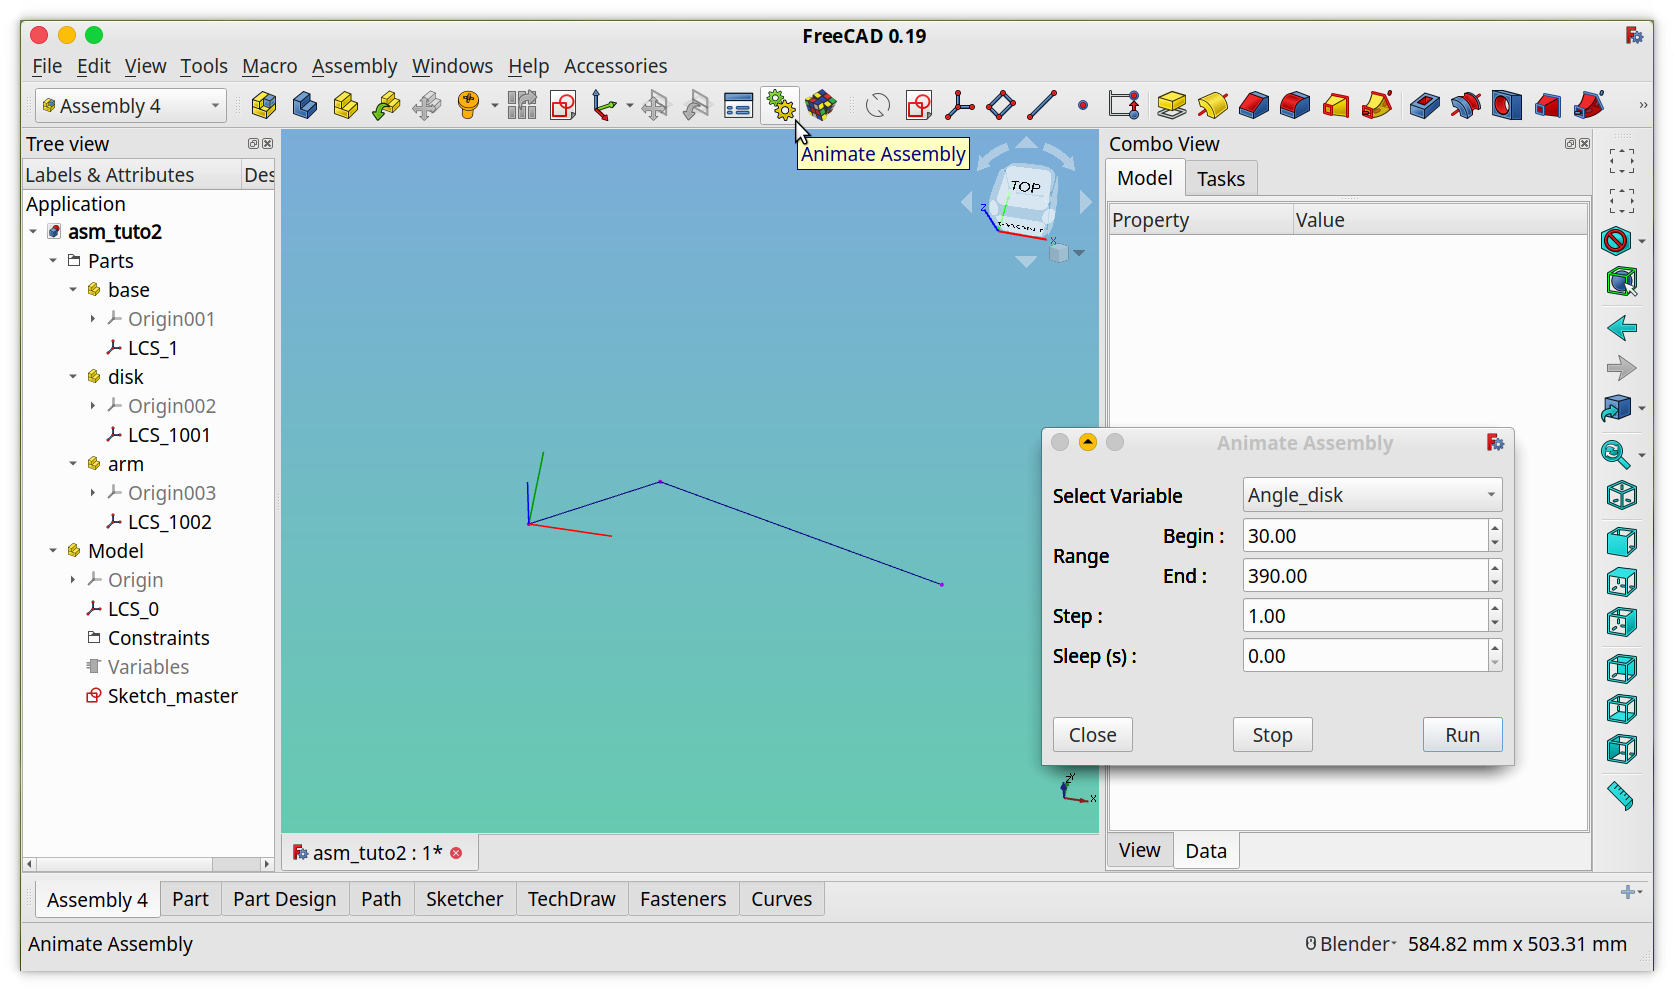
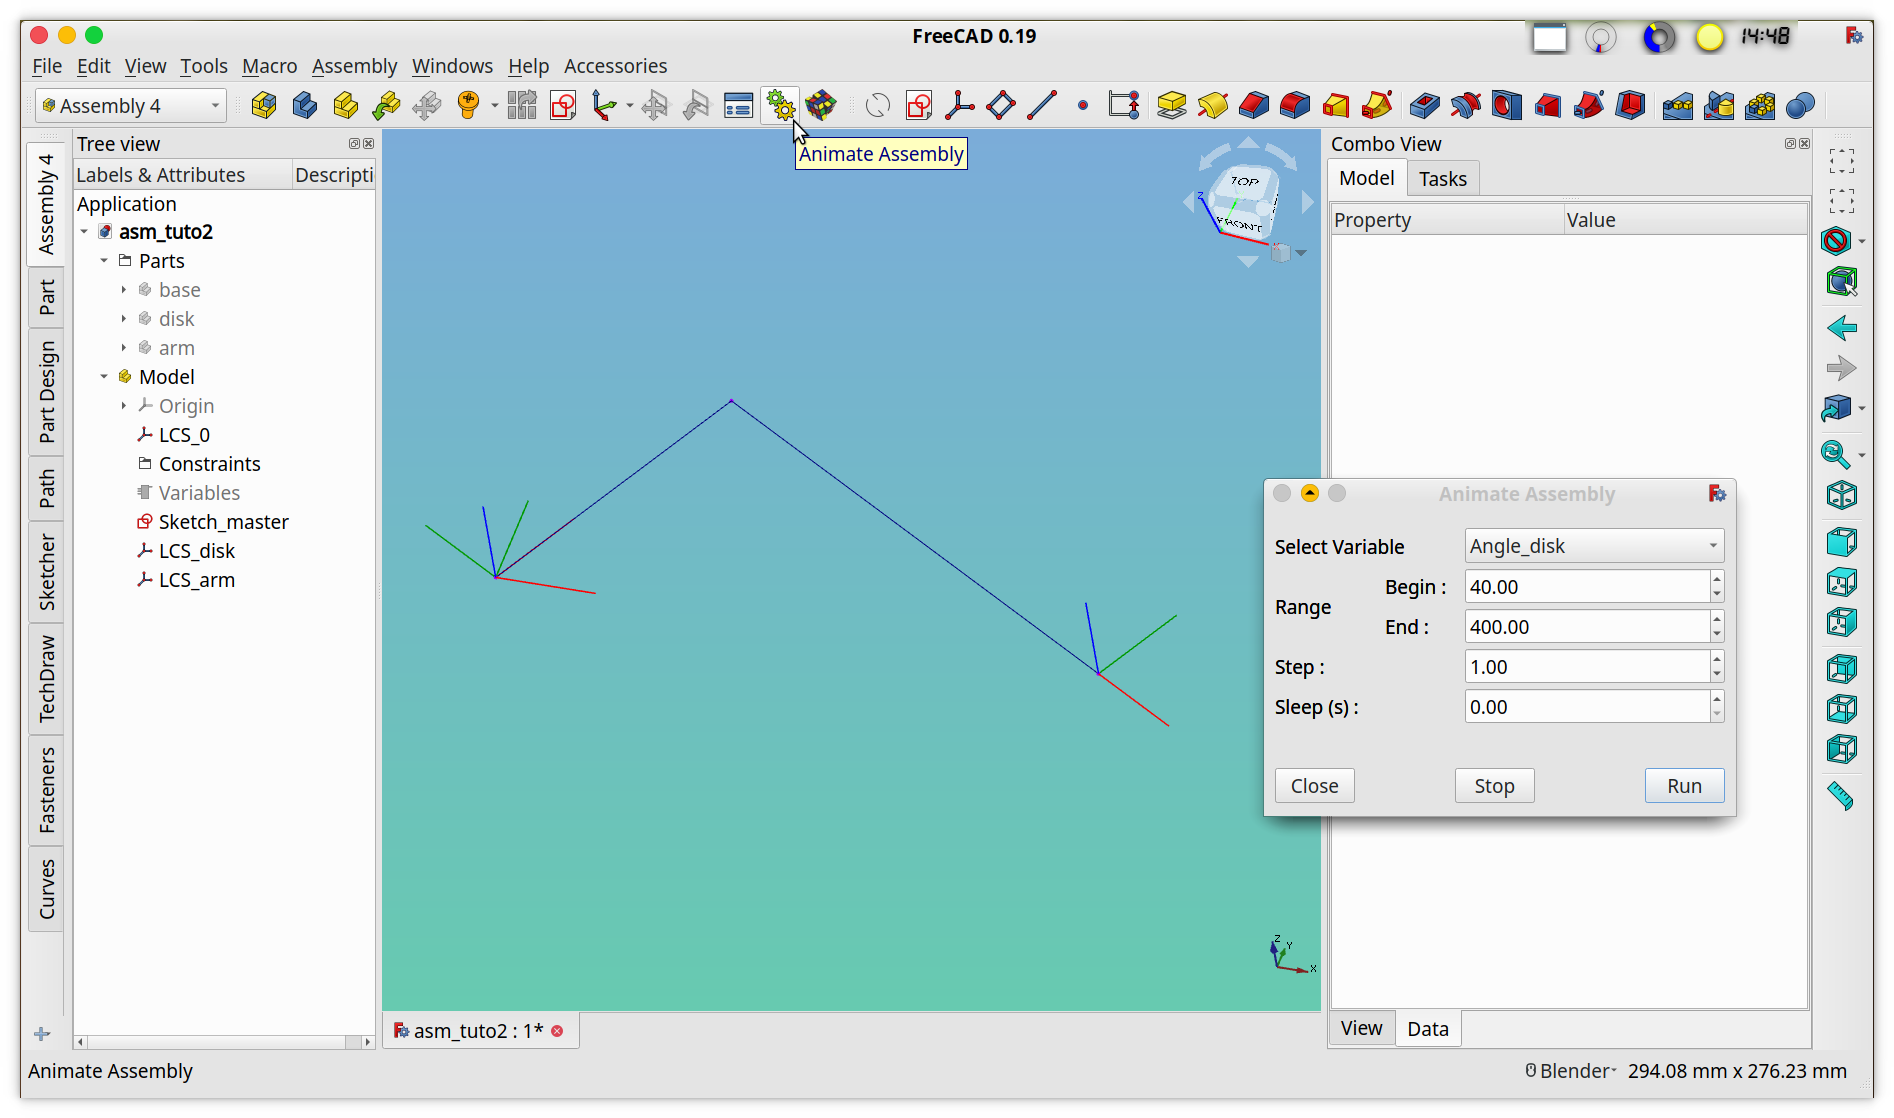
corrected some of tutorial 2

diff --git a/Resources/TUTORIAL2.md b/Resources/TUTORIAL2.md
@@ -106,18 +106,6 @@ Now we'll draw the sketch. It is important to note that there are many ways to b
 
 **Result:** Our master sketch is finished
 
-Before going any further, we'll check that our sketch is working as expected by animating it:
-
-* Click on the **Animate Assembly** button (or menu **Assembly -> Animate Assembly**)
-* Select the variable _Angle_disk_ 
-* Choose 30 and 390 as _Begin_ and _End_ values
-* Choose 1 as _Step_ and 0 for _Sleep_
-* Click **Run**
-
-![](media/tuto2_animateSketch.png)
-
-**Result:** Check that the lines of the _Sketch_master_ move as expected. If not, something went wrong and you must fix it before going further.
-
 
 ### Create the attachment _LCS_
 
@@ -146,6 +134,20 @@ As a final check before doing the part designs you can animate the master sketch
 * _LCS_0_ for the _base_ part
 * _LCS_disk_ for the _disk_ part
 * _LCS_arm_ for the _arm_ part
+
+### Animate master sketch
+
+Before going any further, we'll check that our sketch is working as expected by animating it:
+
+* Click on the **Animate Assembly** button (or menu **Assembly -> Animate Assembly**)
+* Select the variable _Angle_disk_ 
+* Choose 40 and 400 as _Begin_ and _End_ values
+* Choose 1 as _Step_ and 0 for _Sleep_
+* Click **Run**
+
+![](media/tuto2_animateSketch.png)
+
+**Result:** Check that the lines of the _Sketch_master_ move as expected and that all _LCS_ follow them. If not, something went wrong and you must fix it before going further.
 
 
 ## Parts
